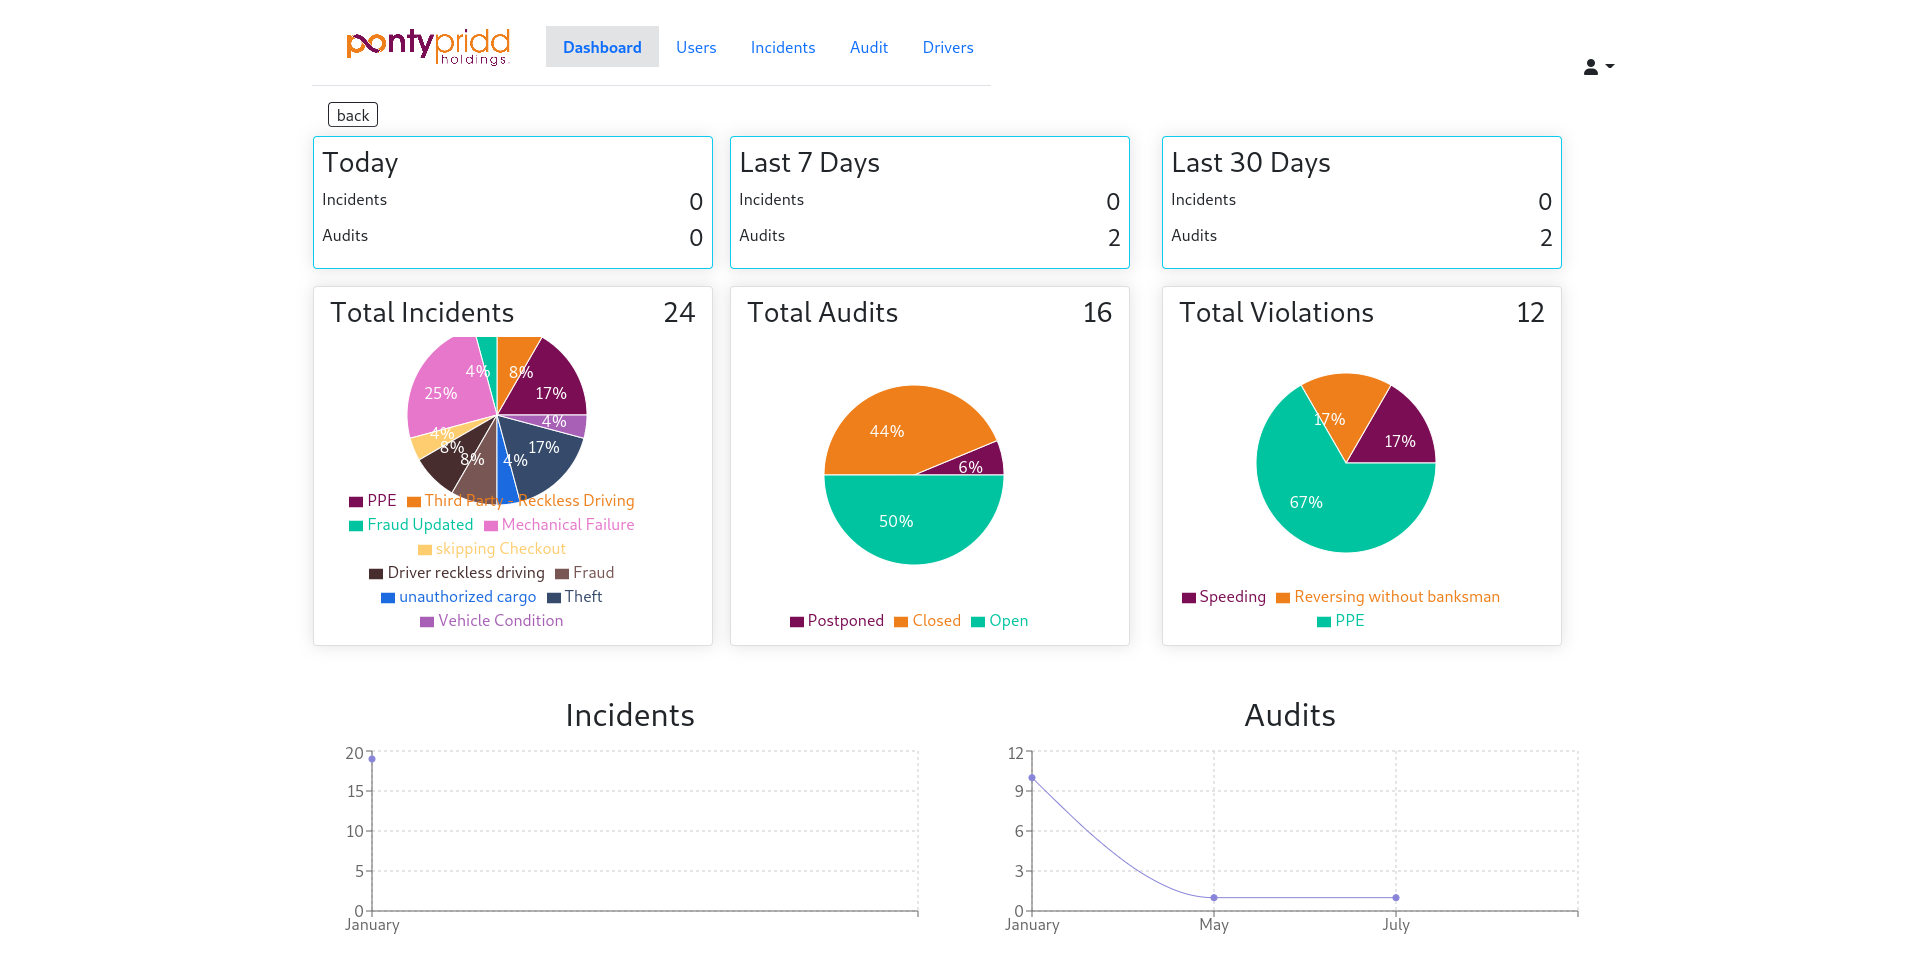
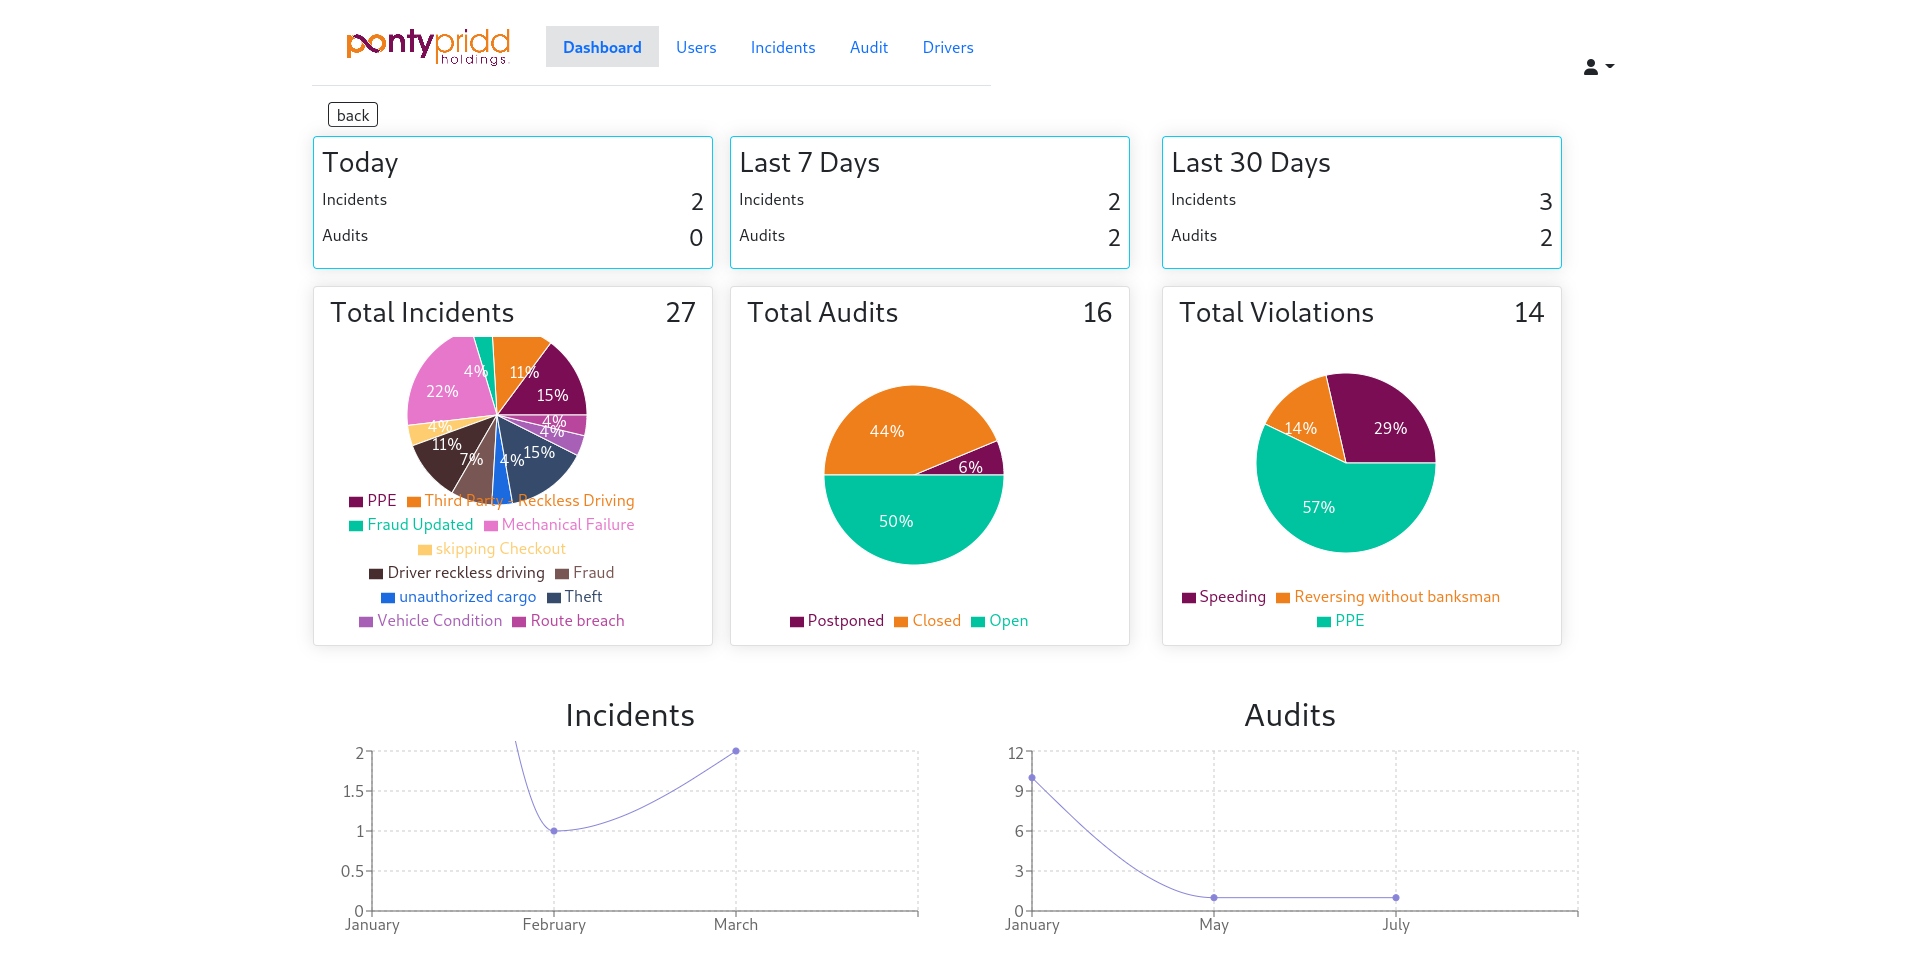
adding incidents

diff --git a/pageObjects/incidentsPage.py b/pageObjects/incidentsPage.py
@@ -1,0 +1,132 @@
+from selenium.webdriver.common.by import By
+from selenium.webdriver.support.select import Select
+
+
+class Incident:
+
+
+    def __init__(self, driver, logger):
+        self.driver = driver
+        self.logger = logger
+
+
+    def navIncidents(self):
+        try:
+            incidentBtn = self.driver.find_element(By.XPATH, "//a[normalize-space()='Incidents']")
+            incidentBtn.click()
+            self.logger.debug("**** Incidents button on the navigation bar was clicked successfully ****")
+        except:
+            self.logger.debug("**** Something went wrong. Incident button on the navigation bar was not found ****")
+
+    def addBtn(self):
+        try:
+            Btn = self.driver.find_element(By.XPATH, "//button[normalize-space()='Add']")
+            Btn.click()
+            self.logger.debug("**** Add Incident button was clicked successfully ****")
+        except:
+            self.logger.debug("**** Something went wrong. Add incident button was not found ****")
+
+
+    def vehicleInput(self, plate):
+        try:
+            vehicle = self.driver.find_element(By.XPATH, "//input[@id='car']")
+            vehicle.clear()
+            vehicle.send_keys(plate)
+            option = self.driver.find_element(By.XPATH, "//div[@class='wrapper'][1]/ul/li[1]")
+            option.click()
+            self.logger.debug("**** Vehicle was entered successfully ****")
+        except:
+            self.logger.debug("**** Something went wrong. Vehicle was not entered ****")
+
+
+    def driverInput(self, name):
+        try:
+            driver = self.driver.find_element(By.XPATH, "//input[@id='search']")
+            driver.clear()
+            driver.send_keys(name)
+            option = self.driver.find_element(By.XPATH, "//div[@class='wrapper'][2]/ul/li[1]")
+            option.click()
+            self.logger.debug("**** Driver was entered successfully ****")
+        except:
+            self.logger.debug("**** Something went wrong. Driver was not entered ****")
+
+
+    def incidentSelect(self, incidnt):
+        try:
+            incident = Select(self.driver.find_element(By.XPATH, "//select[@placeholder='Incident']"))
+            incident.select_by_visible_text(incidnt)
+            self.logger.debug("**** Incident was added successfully ****")
+        except:
+            self.logger.debug("**** Something went wrong. Incident was not selected ****")
+
+
+    def descriptionInput(self, dspt):
+        try:
+            description = self.driver.find_element(By.XPATH, "//textarea[@placeholder='Description']")
+            description.clear()
+            description.send_keys(dspt)
+            self.logger.debug("**** Description was added successfully ****")
+        except:
+            self.logger.debug("**** Something went wrong. Description was not entered ****")
+
+    
+    def actionInput(self, act):
+        try:
+            action = self.driver.find_element(By.XPATH, "//input[@placeholder='Action']")
+            action.clear()
+            action.send_keys(act)
+            self.logger.debug("**** Action was entered successfully ****")
+        except:
+            self.logger.debug("**** Something went wrong. Action was not entered")
+
+
+    def locationInput(self, where):
+        try:
+            location = self.driver.find_element(By.XPATH, "//input[@placeholder='Where']")
+            location.clear()
+            location.send_keys(where)
+            self.logger.debug("**** Location was entered successfully ****")
+        except:
+            self.logger.debug("**** Something went wrong. Location was not entered ****")
+
+
+    def violationSelect(self, txt):
+        try:
+            violation = Select(self.driver.find_element(By.XPATH, "//select[@placeholder='Violation']"))
+            violation.select_by_visible_text(txt)
+            self.logger.debug("**** Violation was selected successfully. ****")
+        except:
+            self.logger.debug("**** Something went wrong. Violation was not selected ****")
+
+    def dateInput(self, dt):
+        try:
+            date = self.driver.find_element(By.XPATH, "//input[@placeholder='Select Date']")
+            date.send_keys(dt)
+            self.logger.debug("**** Incident date was added successfully ****")
+        except:
+            self.logger.debug("**** Something went wrong. Incident date was not entered ****")
+
+
+    def saveBtn(self):
+        try:
+            btn = self.driver.find_element(By.XPATH, "//button[@id='close']")
+            btn.click()
+            self.logger.debug("**** Save and Close button was clicked successfully ****")
+        except:
+            self.logger.debug("**** Something went wrong. Save and Close button was not clicked ****")
+
+    def errormsg(self):
+        try:
+            msg = self.driver.find_element(By.XPATH, "//div[@class='errmsg']")
+            return msg.text
+        except:
+            return "No error"
+
+    def closeBtn(self):
+        try:
+            closebtn = self.driver.find_element(By.XPATH, "//button[normalize-space()='Close']")
+            closebtn.click()
+            self.logger.debug("**** Close button was clicked successfully ****")
+        except:
+            self.logger.debug("**** Something went wrong. Close button was not clicked ****")
+

diff --git a/testCases/test_incidents.py b/testCases/test_incidents.py
@@ -1,0 +1,47 @@
+from utilities.readproperty import ReadConfig
+from utilities.customlogger import LogGen
+from pageObjects.loginPage import Login
+from pageObjects.incidentsPage import Incident
+import time
+
+
+class Test_003_users:
+    base_url = ReadConfig.get_app_url()
+    logger = LogGen().log_gen()
+
+    def test_incidents_landing_page(self, setup):
+        self.driver = setup
+        self.driver.get(self.base_url)
+        login = Login(self.driver, self.logger)
+        login.enterEmail("admin@pontypriddholdings.com")
+        login.enterPassword("123456")
+        login.clickLogin()
+        self.logger.debug("**** Login was successful ****")
+        time.sleep(3)
+        incident = Incident(self.driver, self.logger)
+        incident.navIncidents()
+        url = self.driver.current_url
+        if url == "https://dev.safety.pontypriddholdings.com/incidents":
+            assert True
+            self.logger.debug("**** Incidents landing page was accessed successfully ****")
+        else:
+            self.logger.debug("**** Something went wrong. Incidents landing page was not accessed ****")
+            assert False
+
+    def test_add_incident(self, setup):
+        self.driver = setup
+        incident = Incident(self.driver, self.logger)
+        incident.addBtn()
+        incident.vehicleInput("KAA293B")
+        incident.driverInput("Francis Muniu")
+        incident.incidentSelect("Fraud")
+        incident.descriptionInput("Anything")
+        incident.actionInput("Suspend")
+        incident.locationInput("Nairobi")
+        incident.violationSelect("PPE")
+        incident.dateInput("03/02/2023")
+        
+
+
+
+    
